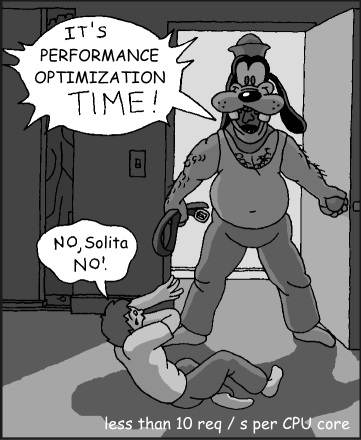
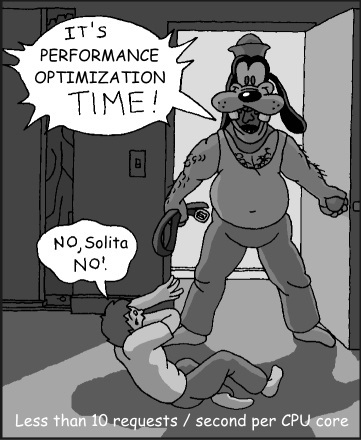
Measuring Episerver site performance: grammatic fixes & tune-ups

Changed region(s): [[0.0305, 0.9159, 0.9751, 0.975]]

diff --git a/_posts/2016-01-21-measuring-episerver-site-performance.md b/_posts/2016-01-21-measuring-episerver-site-performance.md
@@ -2,18 +2,19 @@
 layout: post
 title: Measuring Episerver site performance
 author: dratini
-excerpt: A ready-to-use JMeter performance test project that will tear your site to pieces, or not. Just add urls!
+excerpt: A ready-to-use JMeter performance test project that will tear your site to pieces, or not. Just add URLs!
 categories: 
 - EPiServer
 tags: 
-- EPiServer 
-- .NET 
+- EPiServer
+- DOTNET
 - Performance
+- JMeter
 ---
 Adequate performance is a critical requirement for any project, and one I want to nail before going live.
-We usually know the expected amount of traffic, but how well do we know the actual performance? 
-As rule-of-thumb, I expect an Episerver site to handle **at least** 10 page request / second per one CPU core. 
-For example, machine with 4 CPU cores should be able to handle more than 144,000 page requests in an hour.
+We usually know the expected amount of traffic, but how well do we know the actual site performance? 
+As rule-of-thumb, I expect an Episerver site to handle **at least** 10 page requests / second per one CPU core. 
+For example, a server with 4 CPU cores should be able to handle more than 144,000 page requests in an hour.
 As with all assumptions, there should be a way to verify it.
 
 ![Time to optimize](/img/measuring-episerver-site-performance/gooby-optimize.jpg)
@@ -23,12 +24,14 @@ The best tool I have found to measure Episerver read-only performance is [**JMet
 but also abhorrent to configure without prior experience. 
 I am no JMeter expert, yet time and determination yielded something useful I wish to share: [**JMeter-perfotrator**](https://github.com/dratini/jmeter-perfotrator)
 
-It is a ready-to-use JMeter project for simple performance testing with aim to minimize manual work, the only required configuration being test url list. 
-You can download the GitHub repository as a [ZIP file](https://github.com/dratini/jmeter-perfotrator/archive/master.zip) for convenience, and it should work right out-of-the box, though Java is required, sorry for that.
+It is a ready-to-use JMeter project for simple performance testing with the aim to minimize manual work, the only required configurable part being the test URL list. 
+You can download the GitHub repository as a [ZIP file](https://github.com/dratini/jmeter-perfotrator/archive/master.zip) for convenience, and it should work right out-of-the box.
+Java is required, sorry for that.
 
-First, grab some urls for testing. Add them to file [_project\urls.txt_](https://github.com/dratini/jmeter-perfotrator/blob/master/project/urls.txt), one per line. 
-Then fire up JMeter with _start-gui.bat_, you should now see the JMeter UI.
-It might look like a Soviet nuclear plant control panel, but the only buttons you need to know for basic use are these.
+First, grab some URLs for testing. 
+Add the URLs to file [_project\urls.txt_](https://github.com/dratini/jmeter-perfotrator/blob/master/project/urls.txt), one URL per line. 
+Fire up JMeter with _start-gui.bat_ and you should see the JMeter UI.
+It might look like a control panel out of a Soviet power plant, but the only buttons you need to know for basic use are these.
 
 [![JMeter basic controls](/img/measuring-episerver-site-performance/jmeter-basic-controls.jpg)](/img/measuring-episerver-site-performance/jmeter-basic-controls.jpg)
 
@@ -36,9 +39,8 @@ Eager as we are, let us fire up the test by pressing START, and view the results
 
 [![JMeter report view](/img/measuring-episerver-site-performance/jmeter-report-view.jpg)](/img/measuring-episerver-site-performance/jmeter-report-view.jpg)
 
-The report is easy to interpret, just ensure that Error rate is always zero. 
-The most interesting column is Throughput as it's unit is requests per second, the answer we were looking for.
-Please note that only the html is downloaded; stylesheets, scripts and other embedded resources are ignored.
+The report is easy to interpret, just ensure that Error % is always zero. 
+The most interesting column is Throughput as its unit is requests per second, the answer we were looking for.
 
 While executing the test, the server CPU usage should be sky-high.
 
@@ -46,7 +48,7 @@ While executing the test, the server CPU usage should be sky-high.
 
 If not, you can change the execution parameters to increase the load.
 By default, the project uses 15 threads for requests, that is 15 simultaneous requests running at a time. 
-Each thread will execute 100 requests, totalling to 1500 requests per each url.
+Each thread will execute 100 requests, totalling to 1500 requests per each URL.
 The defaults are changeable on _Test Plan_-node.
 
 ![Change execution parameters](/img/measuring-episerver-site-performance/jmeter-your-best-nightmare.jpg)
@@ -59,25 +61,31 @@ You can enable grayed out nodes by left-clicking and choosing _Enable_ in the co
 
 * **Cookie Manager**: Enables cookies. Threads will remember and use cookies like a browser. You can also add custom cookies that are used by all threads, for example, a session cookie for authentication.
 * **View Results in Table**: Shows details per request in a table. Not as verbose as View Results in Tree. 
-* **View Results in Tree**:Very detailed results per request. Contains http request and response details, thus making this very useful while debugging site access and errors.
+* **View Results in Tree**: Very detailed results per request. It contains HTTP request and response details, thus making this a great help when debugging site access and errors.
 
-### Reliable site setup
-The most reliable results are acquired from an environment identical to production, unfortunately this is not always possible in development stage. 
+### Testing static resources
+JMeter-perfotrator donwloads only the HTML, whereas stylesheets, scripts and other embedded resources are ignored. 
+Static resources do not affect CPU usage much at all, but use a huge amount of bandwidth, which will hinder the testing.
+Furthermore, static resources are easily cached by browsers and proxies, so I normally do not consider them an issue. 
+
+Though if you wish, you can change the setup to download the embedded resources too.
+
+![Download embedded](/img/measuring-episerver-site-performance/jmeter-download-static-resources.jpg)
+
+## Reliable site setup
+The most reliable results are acquired from an environment identical to production. Unfortunately this is not always possible in development stage. 
 If you choose to use localhost, bear in mind that there is virtually no network delay or bandwidth limit, which will yield way too optimistic results. 
 Also, mind that running the site on Visual Studio with IIS Express will have unstable performance compare to real IIS. 
 I have often used CI environment when production or test environments were not available.
 
 ![Real-life internet](/img/measuring-episerver-site-performance/real-life-internet.jpg)
 
-
-### Protip: Profiling the code
-JMeter may show you the performance rating, but profiling will tell you where is the hold-up. 
+## Protip: Profiling the code
+JMeter may show you the performance rating, but profiling will tell you where the hold-up is. 
 Very useful for spotting performance issues in code, and to help avoiding premature optimization - just optimize what needs to be optimized. 
-JetBrain's [dotTrace](https://www.jetbrains.com/profiler/) is my tool of choice.
+JetBrain' [dotTrace](https://www.jetbrains.com/profiler/) is my tool of choice.
 
-### Protip: Acquiring the code
-Sometimes the interesting parts are in external dlls, which may not have source available at all. 
-Luckily, we have decompilers to solve the problem, for example, JetBrain's [dotPeek](https://www.jetbrains.com/decompiler/). 
-The code in our hands we can look for fixes, workarounds and propose improvements. 
-Like [CachingUrlResolver](https://github.com/solita/episerver-performance/blob/master/Solita.Episerver.Performance/Routing/CachingUrlResolver.cs) 
-that yields massive performance gains with pages containing lots of url resolving.
+## Protip: Acquiring the code
+Sometimes the interesting parts are in external DLLs, which may not have source code available at all. 
+Luckily, we have decompilers to solve the problem, for example, JetBrain' [dotPeek](https://www.jetbrains.com/decompiler/). 
+With the code in our hands we can look for fixes, workarounds and propose improvements.
